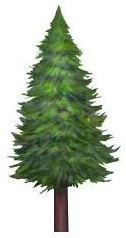
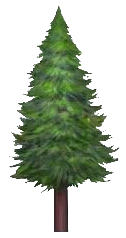
added even more plants and fixed zooming

diff --git a/src/main/SimpleTest.java b/src/main/SimpleTest.java
@@ -26,13 +26,16 @@ public class SimpleTest extends BasicGame {
 	private Point coords = new Point(0, 0);
 	private int zoomLevel;
 	private int ZOOMSPEED = 2;
-	private int SPEED = 4;
+	private int DEFAULT_SPEED = 1;
+	private int SPEED = DEFAULT_SPEED;
 	int height, width;
 
 	private Input input;
 
 	private boolean started = false;
 	Set<Integer> keysPressed;
+	public Object lock = new Object();
+	public Object lock2 = new Object();
 
 	public SimpleTest() {
 		super("Jurassic Park");
@@ -59,68 +62,95 @@ public class SimpleTest extends BasicGame {
 	@Override
 	public void update(GameContainer container, int delta) throws SlickException {
 		world.update();
+		synchronized (lock2) {
 
-		for (Integer i : keysPressed) {
-			if (i == Input.KEY_Z) {
+			if (keysPressed.contains(Input.KEY_Z)) {
 				// filer.saveStringMap("files/map.txt", grid);
-			} else if (i == Input.KEY_SPACE) {
-				// map = new Original(type);
-				// map.make();
-				// grid = map.getGrid();
+			}
+			if (keysPressed.contains(Input.KEY_SPACE)) {
+			}
+			if (keysPressed.contains(Input.KEY_UP)) {
 
-				// theStage.show();
+				synchronized (lock) {
+					// zoom in
+					if (zoomLevel > 10) {
+						zoomLevel -= ZOOMSPEED;
+						if (coords.y + ZOOMSPEED / 2 > 0 && coords.y + ZOOMSPEED / 2 < height) {
+							coords.translate(0, ZOOMSPEED / 2);
+						}
+						if (coords.x + ZOOMSPEED / 2 > 0 && coords.x + ZOOMSPEED / 2 < width) {
+							coords.translate(ZOOMSPEED / 2, 0);
+						}
+						if (zoomLevel < 75) {
+							SPEED = 1;
+						}
+					}
 
-			} else if (i == Input.KEY_UP) {
-				if (zoomLevel > 4) {
-					zoomLevel -= ZOOMSPEED;
-				}
-				coords.translate(ZOOMSPEED / 2, ZOOMSPEED / 2);
-				if (zoomLevel < 75) {
-					SPEED = 1;
 				}
 
-			} else if (i == Input.KEY_DOWN) {
-				if (zoomLevel < height - 1) {
-					zoomLevel += ZOOMSPEED;
-					coords.translate(-ZOOMSPEED / 2, -ZOOMSPEED / 2);
-					if (coords.y + zoomLevel > height) {
-						coords.translate(0, -ZOOMSPEED);
-					}
-					if (coords.x + zoomLevel > width) {
-						coords.translate(-ZOOMSPEED, 0);
-					}
-					if (coords.y < 0) {
-						coords.translate(0, ZOOMSPEED);
-					}
-					if (coords.x < 0) {
-						coords.translate(ZOOMSPEED, 0);
-					}
-				}
-				if (zoomLevel >= 75) {
-					SPEED = 4;
-				}
-			} else if (i == Input.KEY_W) {
+			}
+			if (keysPressed.contains(Input.KEY_DOWN)) {
+				synchronized (lock) {
+					// zoom out
+					if (zoomLevel < height - 1) {
+						zoomLevel += ZOOMSPEED;
+						if (coords.y - ZOOMSPEED / 2 > 0 && coords.y - ZOOMSPEED / 2 < height) {
+							coords.translate(0, -ZOOMSPEED / 2);
+						}
+						if (coords.x - ZOOMSPEED / 2 > 0 && coords.x - ZOOMSPEED / 2 < width) {
+							coords.translate(-ZOOMSPEED / 2, 0);
+						}
 
-				if (coords.y > 0) {
+						if (coords.y + zoomLevel > height) {
+							coords.translate(0, -ZOOMSPEED);
+						}
+						if (coords.x + zoomLevel > width) {
+							coords.translate(-ZOOMSPEED, 0);
+						}
+						if (coords.y < 0) {
+							coords.translate(0, ZOOMSPEED);
+						}
+						if (coords.x < 0) {
+							coords.translate(ZOOMSPEED, 0);
+						}
+					}
+					if (zoomLevel >= 75) {
+						SPEED = DEFAULT_SPEED;
+					}
+				}
+			}
+			if (keysPressed.contains(Input.KEY_W)) {
+
+				if (coords.y - SPEED >= 0) {
 					coords.translate(0, -SPEED);
 				}
-			} else if (i == Input.KEY_S) {
-				if (coords.y + zoomLevel < height) {
-					coords.translate(0, SPEED);
+			}
+			if (keysPressed.contains(Input.KEY_S)) {
+
+				synchronized (lock) {
+					if (coords.y + zoomLevel + SPEED <= height) {
+						coords.translate(0, SPEED);
+					}
 				}
-			} else if (i == Input.KEY_A) {
-				if (coords.x > 0) {
+			}
+			if (keysPressed.contains(Input.KEY_A)) {
+
+				if (coords.x - SPEED >= 0) {
 					coords.translate(-SPEED, 0);
 				}
-			} else if (i == Input.KEY_D) {
-				if (coords.x + zoomLevel < width) {
-					coords.translate(SPEED, 0);
+			}
+			if (keysPressed.contains(Input.KEY_D)) {
+
+				synchronized (lock) {
+					if (coords.x + zoomLevel + SPEED <= width) {
+						coords.translate(SPEED, 0);
+					}
 				}
-			} else if (i == Input.KEY_T) {
+			}
+			if (keysPressed.contains(Input.KEY_T)) {
 
 			}
 		}
-
 	}
 
 	@Override
@@ -129,8 +159,11 @@ public class SimpleTest extends BasicGame {
 			renderer.initiateMap(world.getMap(), coords, zoomLevel, container, g);
 			started = true;
 		}
-		renderer.drawWorldSlick(world, coords, zoomLevel, container, g);
-		// g.drawString("Hello, Slick world!", 0, 300);
+		synchronized (lock2) {
+			renderer.drawWorldSlick(world, coords, zoomLevel, container, g);
+			// g.drawString("Hello, Slick world!", 0, 300);
+
+		}
 	}
 
 	public static void main(String[] args) {

diff --git a/src/rendering/Renderer.java b/src/rendering/Renderer.java
@@ -338,17 +338,15 @@ public class Renderer {
 		float imgHeight = (float) sprite.getHeight();
 
 		//System.out.println(imgWidth);
-		if (d.getPos().x > coords.x && d.getPos().x < coords.x + zoomLevel && d.getPos().y > coords.y
-				&& d.getPos().y < coords.y + zoomLevel) {
+		if (d.getPos().x > coords.x-5 && d.getPos().x < coords.x + zoomLevel + 5 && d.getPos().y > coords.y-7
+				&& d.getPos().y < coords.y + zoomLevel+7) {
 			if (d.getDirection() == -1) {
 				sprite = sprite.getFlippedCopy(true, false);
 			}
 			// System.out.println("imgwidth: " + imgWidth);
-			float x = (float) (((d.getPos().x - coords.x) * cellWidth));
-			float y = (float) (((d.getPos().y - coords.y) * cellHeight));
+			float x = (float) (((d.getPos().x - coords.x) * cellWidth) - imgWidth/2);
+			float y = (float) (((d.getPos().y - coords.y) * cellHeight) - imgHeight);
 			g.drawImage(sprite, x, y);
-			//g.setColor(Color.red);
-			//g.draw(new Rectangle((float) ((d.getPos().x - coords.x) * cellWidth),(float) ((d.getPos().y - coords.y) * cellHeight), 5f, 5f));
 		}
 	}
 

diff --git a/src/world/Map.java b/src/world/Map.java
@@ -6,6 +6,7 @@ import java.util.List;
 
 import version2.Terrain;
 import version2.Terrain.Biome;
+import world.plants.Bush;
 import world.plants.Fir;
 import world.plants.Grass;
 import world.plants.Plant;
@@ -26,6 +27,9 @@ public class Map {
 		}
 		for (Point.Double spawnPoint : terrain.getGrassPositions()) {
 			this.plants.add(new Grass(spawnPoint));
+		}
+		for (Point.Double spawnPoint : terrain.getBushPositions()) {
+			this.plants.add(new Bush(spawnPoint));
 		}
 	}
 	

diff --git a/src/world/plants/Fir.java b/src/world/plants/Fir.java
@@ -6,7 +6,7 @@ import java.util.Random;
 public class Fir extends Plant {
 	
 	public Fir(Point.Double newPos) {
-		spriteNames = new String[] {"assets/fir1.png"};
+		spriteNames = new String[] {"assets/fir1.png", "assets/fir2.png", "assets/fir3.png"};
 		setup(spriteNames[new Random().nextInt(spriteNames.length)], newPos);
 
 	}

diff --git a/src/world/plants/Beech.java b/src/world/plants/Beech.java
@@ -1,0 +1,13 @@
+package world.plants;
+
+import java.awt.Point;
+import java.util.Random;
+
+public class Beech extends Plant {
+	
+	public Beech(Point.Double newPos) {
+		spriteNames = new String[] {"assets/beech1.png"};
+		setup(spriteNames[new Random().nextInt(spriteNames.length)], newPos);
+	}
+
+}
